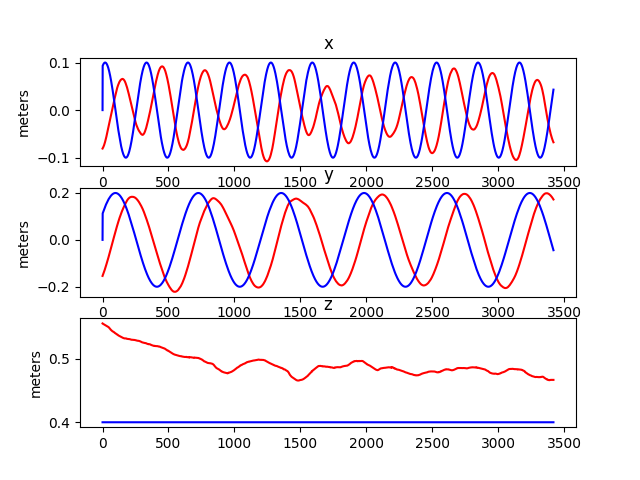
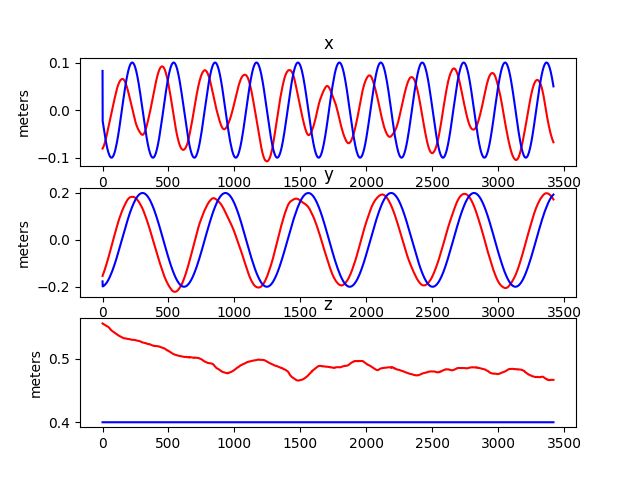
trajectories

diff --git a/plotter/plot_trajectory_ideal_figureeight.py b/plotter/plot_trajectory_ideal_figureeight.py
@@ -8,10 +8,9 @@ import numpy as np
 import csv
 import matplotlib.pyplot as plt
 from mpl_toolkits.mplot3d import Axes3D
-import datetime
+
 def draw_circle_3d(radius, height):
     
-
     # Parameters for the circle
     theta = np.linspace(0, 2*np.pi, 10000)
     x = radius * np.cos(theta)
@@ -27,14 +26,14 @@ def draw_figureeight_3d(radius, height, length=10000):
     x = radius * np.sin(theta) * np.cos(theta)
     z = np.full_like(theta, height)
     return x,y,z
-def generate_coordinates(timestamps, radius = 0.2 , angular=1, height=0.4):
+def generate_coordinates(timestamps, offset, radius = 0.2 , angular=1, height=0.4):
     timestamps = np.array([timestamps])
-    current_time = timestamps[0]
-    print(timestamps)
+    #current_time = timestamps[0]
+    #print(timestamps)
 
     indices = timestamps
-    
-    theta = angular*(indices)
+    print("offset: ",offset)
+    theta = angular*(indices) + offset
     x = radius * np.sin(theta) * np.cos(theta)
     y = radius * np.sin(theta)
     z = np.full_like(theta, height)
@@ -63,6 +62,7 @@ x_ideal = []
 y_ideal = []
 z_ideal = []
 first_second = None
+offset = None
 with Reader(bag_path) as reader:
     for item in reader.connections:
         print(item.topic, item.msgtype)
@@ -72,9 +72,9 @@ with Reader(bag_path) as reader:
             
             # print("nano: ",  msg.header.stamp.nanosec/1e9)
             if first_second is not None: 
-                print("seconds: ",msg.header.stamp.sec)
-                print("first second: ", first_second)
-                timestamp = msg.header.stamp.sec-first_second + msg.header.stamp.nanosec/10**9
+                # print("seconds: ",msg.header.stamp.sec)
+                # print("first second: ", first_second)
+                timestamp = msg.header.stamp.sec - first_second + msg.header.stamp.nanosec/10**9
             else:
                 first_second = msg.header.stamp.sec
                 timestamp = 0
@@ -83,10 +83,12 @@ with Reader(bag_path) as reader:
             # y_ideal.append(radius * np.sin(angular_vel*(timestamp - timestamps[0]))*np.cos(angular_vel*(timestamp - timestamps[0])) + center_y)
             # z_ideal.append(height)
             trans = msg.transform.translation
+            
             x_data.append(trans.x)
             y_data.append(trans.y)
             z_data.append(trans.z)
-    
+            if offset is None:
+                offset = np.arctan2(trans.y-center_y, trans.x-center_x)
             print(msg.header.frame_id)
 # Iterate through the messages in the bag file for the current topic
 # for topic, msg, t in bag.read_messages(topics=[topic_name]):
@@ -112,7 +114,7 @@ y = np.array(y_data)
 z = np.array(z_data)
 
 x_ideal,y_ideal, z_ideal = draw_figureeight_3d(radius, height)
-x_t, y_t, z_t = generate_coordinates(timestamps, radius, angular_vel, height)
+x_t, y_t, z_t = generate_coordinates(timestamps, offset, radius, angular_vel, height)
 # Scatter plot
 ax.set_zlim(0,0.6)
 ax.scatter(x, y, z, c= 'r')
